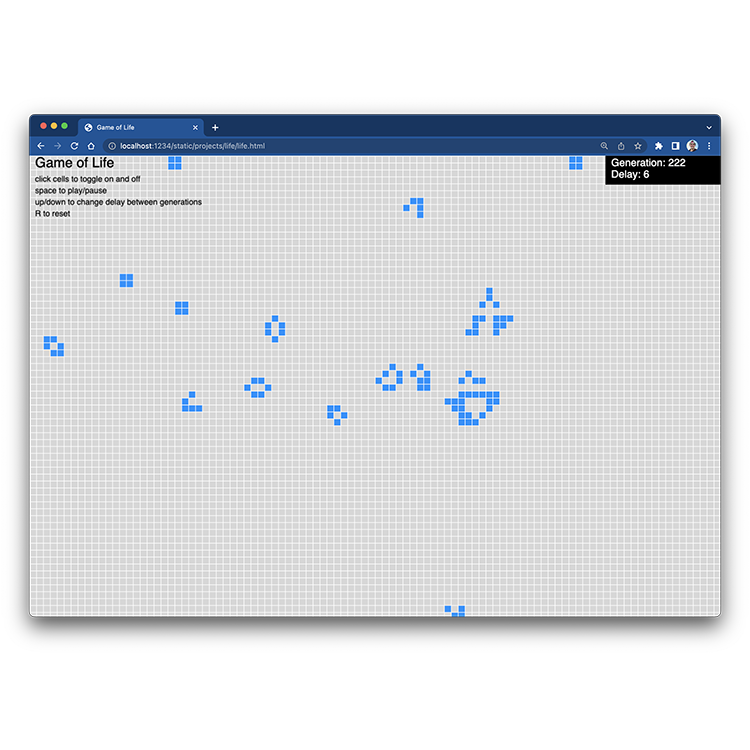
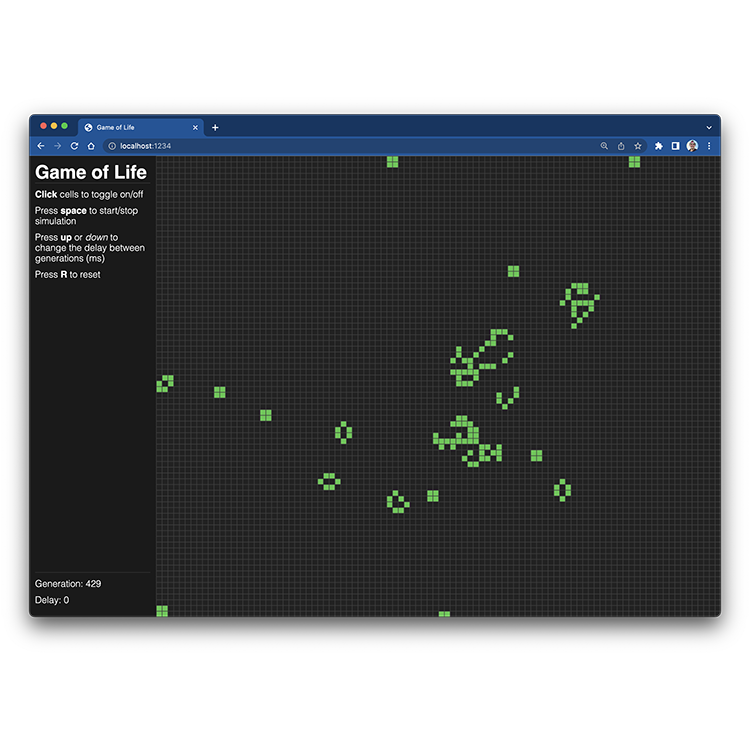
Added new life demo and image

diff --git a/src/projects/life/dist/life.38c85eee.js b/src/projects/life/dist/life.38c85eee.js
@@ -1,0 +1,2 @@
+const e=document.getElementById("canvas"),t=e.getContext("2d");let a=[],n=!1,o=!1,r=0,d=!1,c=!1,s=10,i=0;const l=()=>{for(let t=0;t<e.height/10;t++){a[t]=[];for(let n=0;n<e.width/10;n++)a[t][n]=0}},f=()=>{const e=[],t=(e,t)=>a[e]&&a[e][t];a.forEach(((a,n)=>{e[n]=[],a.forEach(((a,o)=>{let r=((e,a)=>{let n=0;for(let o=a-1;o<=a+1;o++)for(let r=e-1;r<=e+1;r++)r===e&&o===a||!t(r,o)||n++;return n})(n,o);e[n][o]=a?2===r||3===r?1:0:3===r?1:0}))})),a=[...e]},m=()=>{E("delay",s),E("generation",i)},h=()=>{t.clearRect(0,0,e.width,e.height),a.forEach(((e,a)=>{e.forEach(((e,n)=>{t.fillStyle=e?"#4dc74a":"#222222",t.fillRect(10*n+1,10*a+1,9,9)}))})),m(),n&&!d&&(d=!0,c=setTimeout((()=>{d=!1,f(),i++}),s)),requestAnimationFrame(h)},u=()=>{clearTimeout(c),e.height=document.getElementById("canvas-wrapper").clientHeight,e.width=document.getElementById("canvas-wrapper").clientWidth,n=!1,d=!1,i=0,l(),m()};e.addEventListener("mousedown",(e=>{const t=Math.floor(e.offsetX/10),n=Math.floor(e.offsetY/10);r=!a[n][t],a[n][t]=a[n][t]?0:1,o=!0})),e.addEventListener("mouseup",(e=>{o=!1})),e.addEventListener("mousemove",(e=>{if(o){const t=Math.floor(e.offsetX/10),n=Math.floor(e.offsetY/10);a[n][t]=r}})),window.addEventListener("keydown",(e=>{switch(e.code){case"Space":n=!n;break;case"KeyR":u();break;case"ArrowUp":s+=1;break;case"ArrowDown":s-=s>0?1:0}}));const p=e=>document.getElementById(e),w=(e,t=e)=>{p("parameter-readout").insertAdjacentHTML("beforeend",`<p name="param-${e}">${t}: <span name="${e}-value"></span></p>`)},E=(e,t)=>{const a=((e,t)=>e.querySelector(`span[name=${t}]`))(p("parameter-readout"),`${e}-value`);a.innerHTML=t};window.addEventListener("resize",u),w("generation","Generation"),w("delay","Delay"),u(),l(),h();
+//# sourceMappingURL=life.38c85eee.js.map

diff --git a/src/projects/life/dist/life.429117b1.css b/src/projects/life/dist/life.429117b1.css
@@ -1,0 +1,2 @@
+*,* *{margin:0;padding:0}html,body{height:100%;width:100%;overflow:hidden}.page-wrapper{height:100%;width:100%;display:flex}.page-wrapper .sidebar{color:#fff;min-width:200px;max-width:200px;background-color:#1a1a1a;flex-direction:column;padding:10px;font-family:sans-serif;font-weight:100;display:flex}.page-wrapper .sidebar h1{border-bottom:1px solid #373737;margin-bottom:10px}.page-wrapper .sidebar p{margin-bottom:10px}.page-wrapper .sidebar .readout{border-top:1px solid #373737;margin-top:auto;padding-top:10px}.page-wrapper .canvas-wrapper{flex:4}.page-wrapper .canvas-wrapper #canvas{background-color:#3f3f3f}
+/*# sourceMappingURL=life.429117b1.css.map */

diff --git a/src/projects/life/dist/life.html b/src/projects/life/dist/life.html
@@ -1,0 +1,1 @@
+<!doctype html><html><head><title>Game of Life</title><link rel="stylesheet" type="text/css" href="life.429117b1.css"></head><body> <div class="page-wrapper"> <div class="sidebar"> <div> <h1>Game of Life</h1> <p><b>Click</b> cells to toggle on/off</p> <p>Press <b>space</b> to start/stop simulation</p> <p>Press <b>up</b> or <i>down</i> to change the delay between generations (ms)</p> <p>Press <b>R</b> to reset</p> </div> <div class="readout" id="parameter-readout"></div> </div> <div class="canvas-wrapper" id="canvas-wrapper"> <canvas id="canvas"></canvas> </div> </div> <script src="life.38c85eee.js" type="module"></script> </body></html>

diff --git a/src/projects/index.js b/src/projects/index.js
@@ -318,7 +318,7 @@ const projects = [
     "buttons": [
       {
         "title": "View Demo",
-        "url": "/static/projects/life/life.html",
+        "url": "/static/projects/life/dist/life.html",
         "type": "secondary",
         "icon": <FaLaptopCode />
       },
